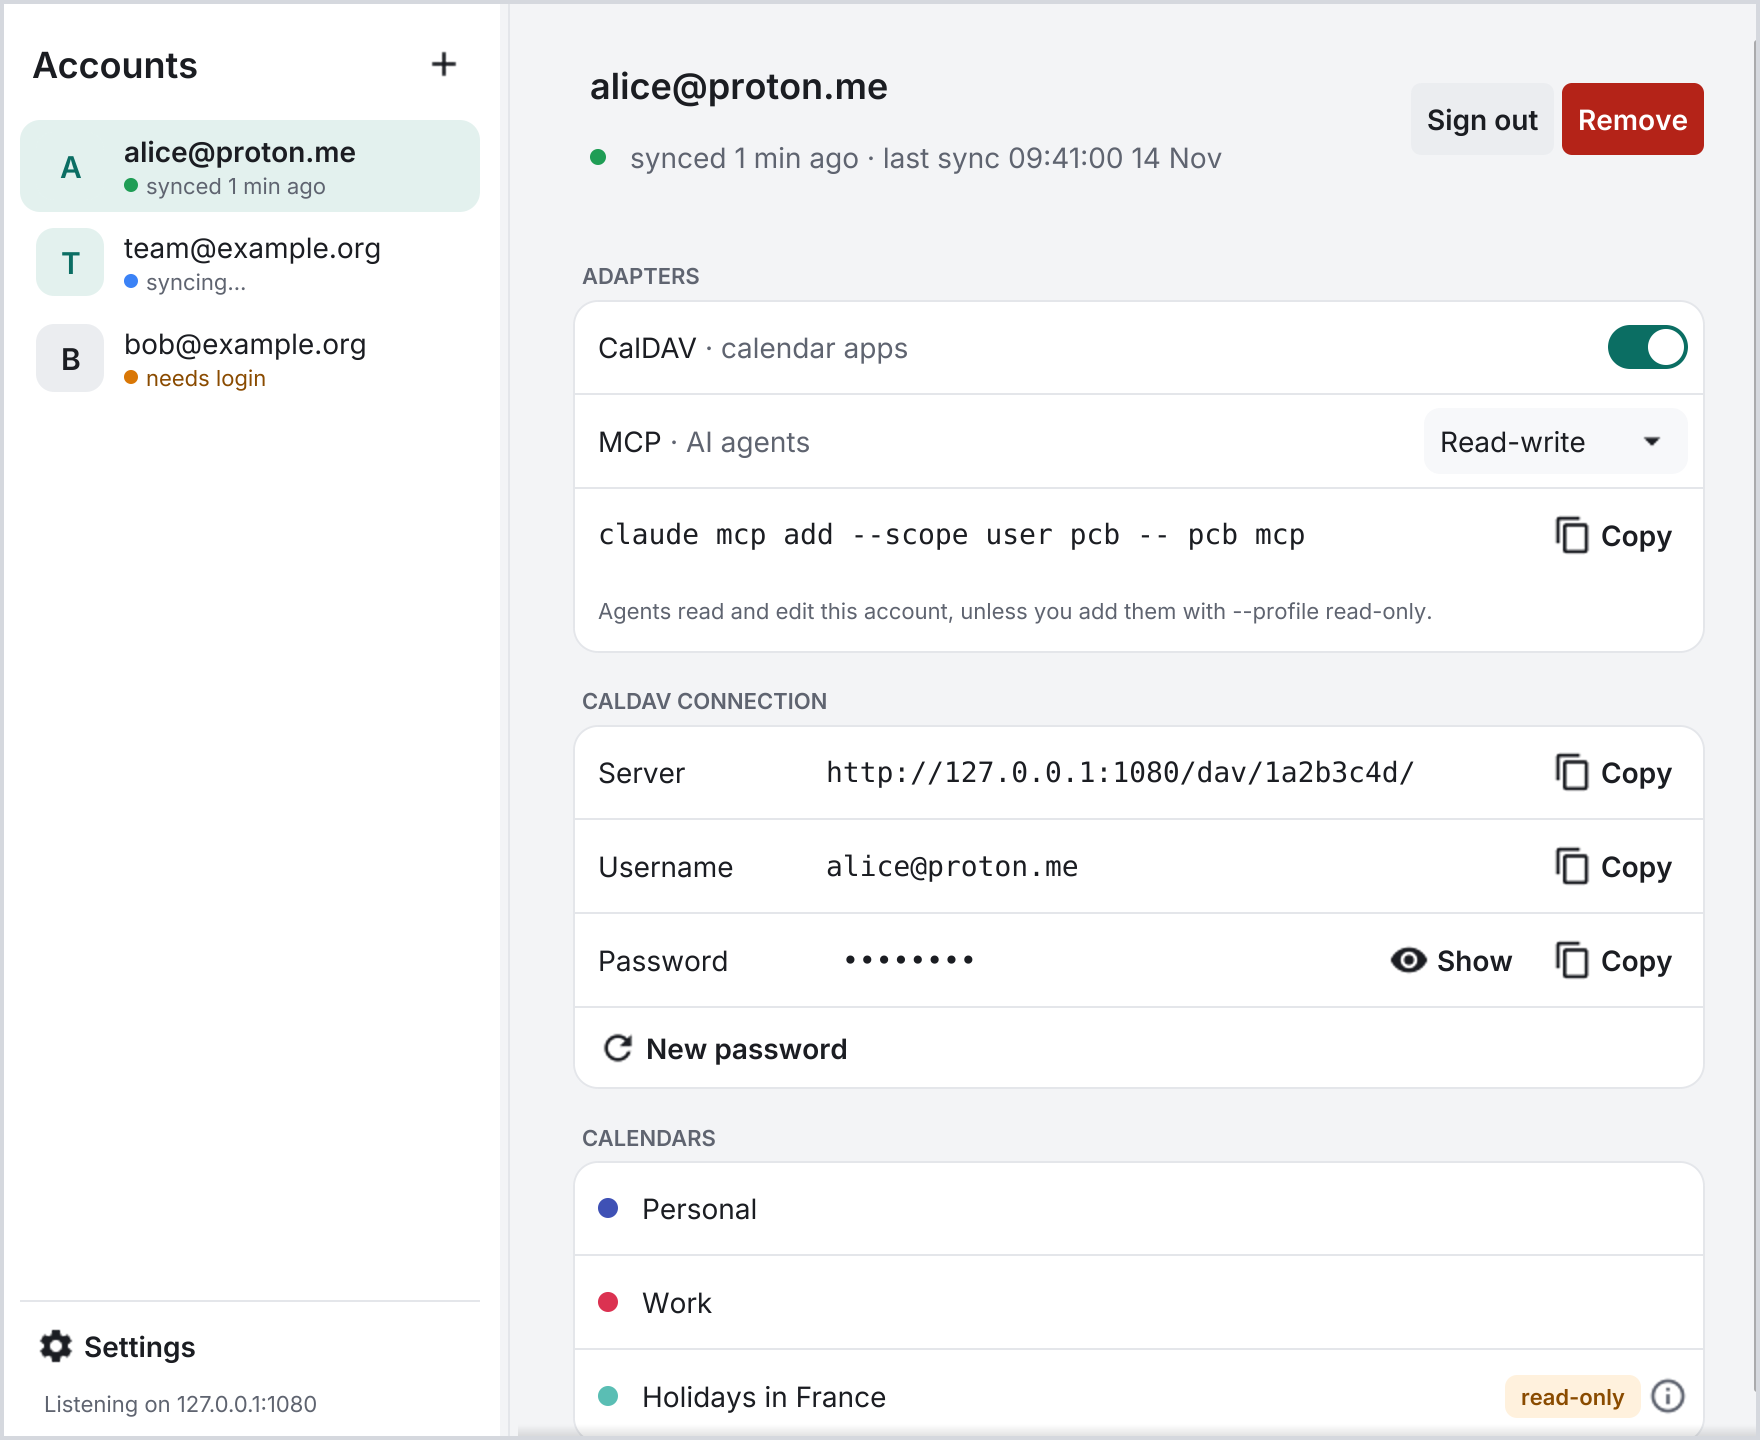
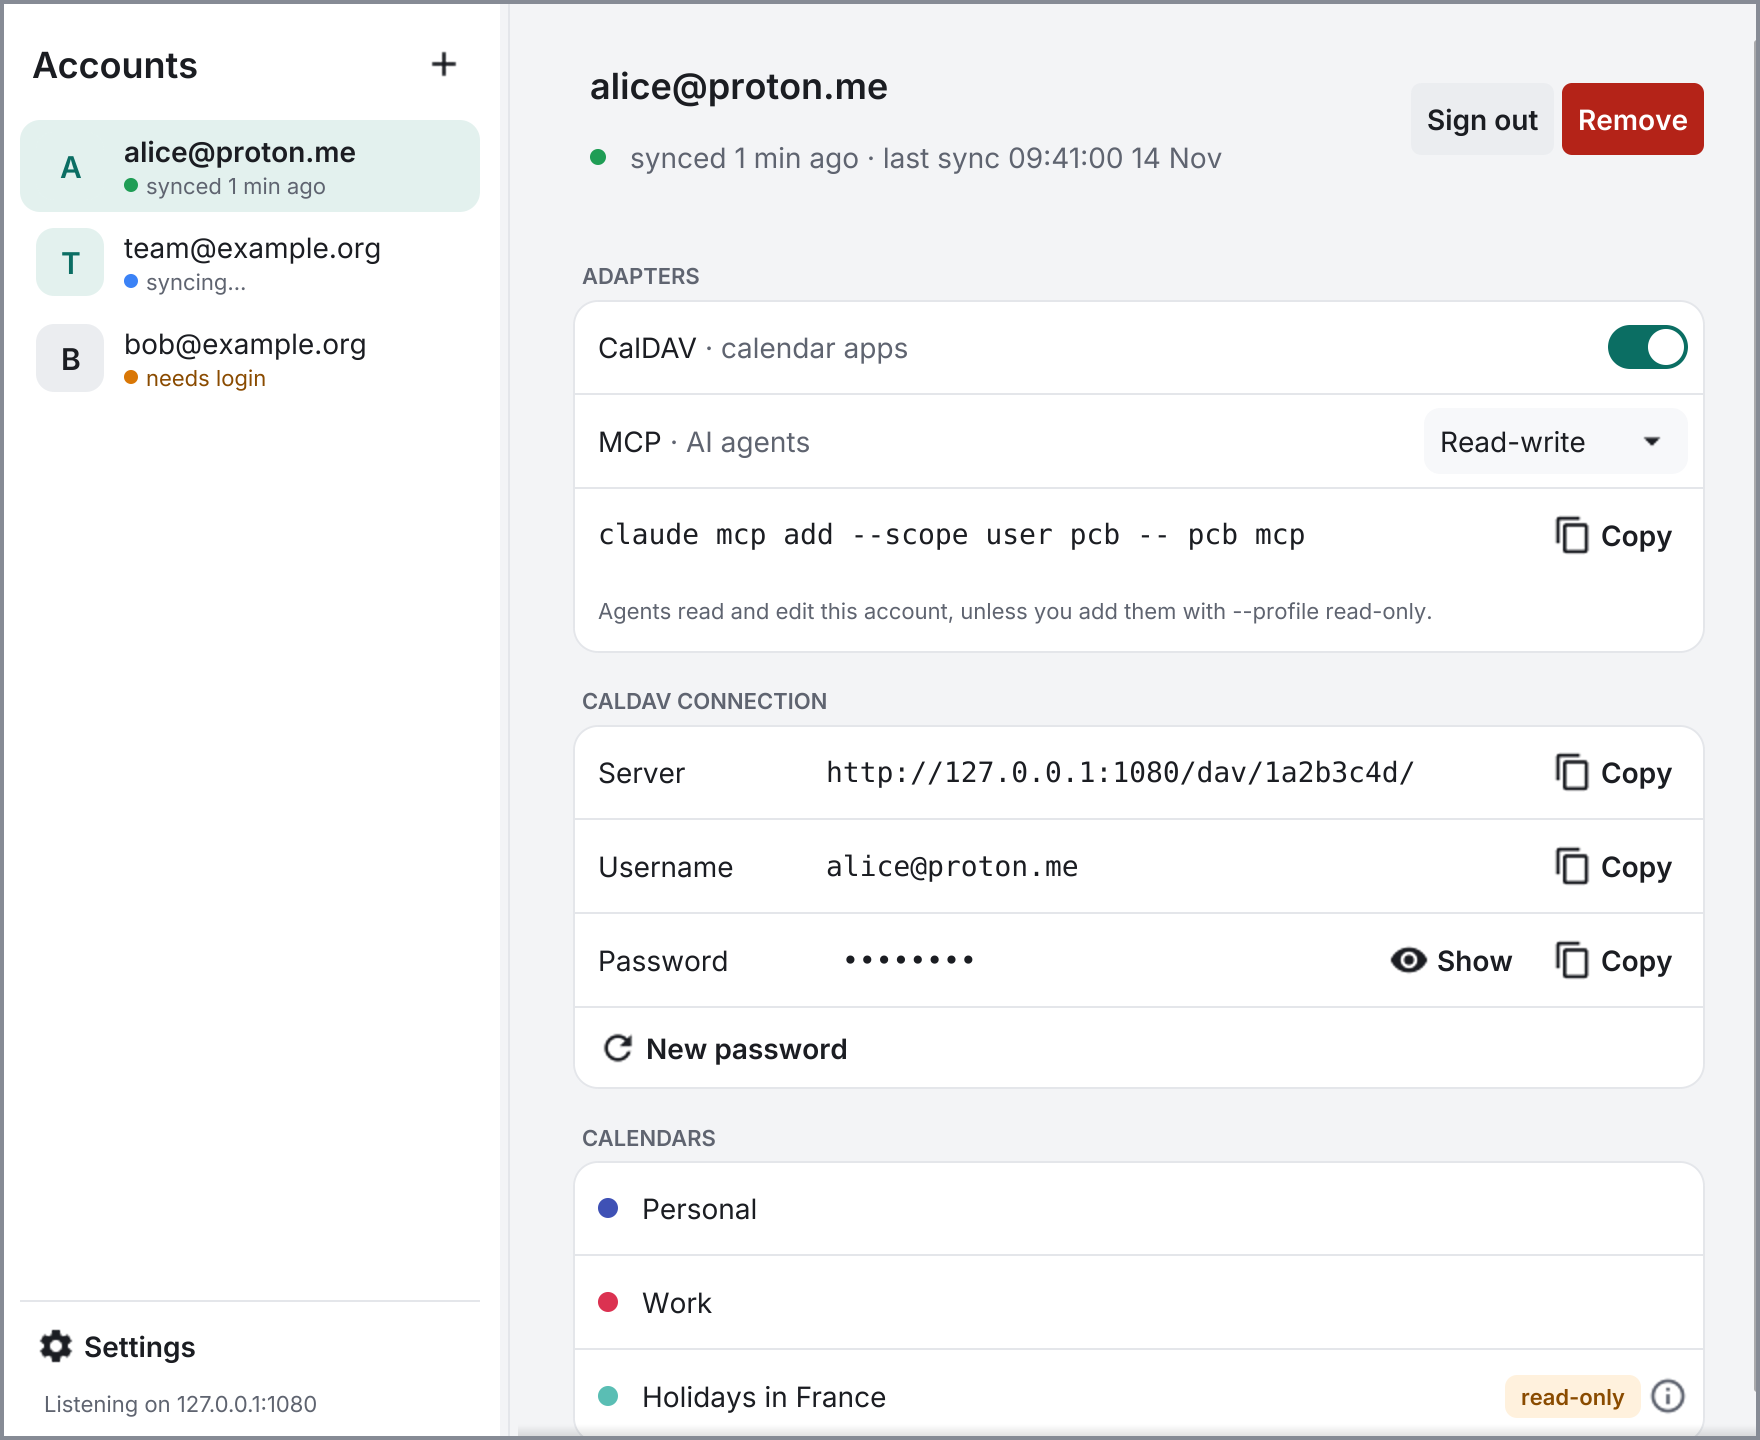
♿ Give pcb-ui's input fields a 3:1 border
The unfocused field border was 1.43:1 on the card in the light variant and
1.51:1 in the dark one, under WCAG 2.2 AA's 3:1 for a component's
boundary. InputBorder is now #868B95 (light) and #6B7280 (dark): 3.42 and
3.30:1 on the card, 3.11 and 3.68:1 on the window's ground, 3.22 and
3.68:1 on the field's own fill. TestThemeInputBorderContrast holds the
three pairs at 3:1 in both variants. The focused border (the accent) is
unchanged.

The toggle's off track, also InputBorder, now reaches 3.42:1 (light) under
its white knob, up from 1.43:1. The screenshots' frame darkens with it;
all PNGs regenerated.

Claude-Session: https://claude.ai/code/session_01XrqMmdVXbwzuAj3iwmDbqj

diff --git a/internal/ui/desktop/theme.go b/internal/ui/desktop/theme.go
@@ -55,7 +55,7 @@ var paper = map[fyne.ThemeVariant]map[fyne.ThemeColorName]color.Color{
 		theme.ColorNameButton:              hex(0xEBEDF0),
 		theme.ColorNameDisabledButton:      hex(0xE4E6EA),
 		theme.ColorNameInputBackground:     hex(0xF7F8FA),
-		theme.ColorNameInputBorder:         hex(0xD5D8DE),
+		theme.ColorNameInputBorder:         hex(0x868B95), // 3:1 on the card, the ground and the field (theme_test.go)
 		theme.ColorNameSeparator:           hex(0xE4E6EA),
 		theme.ColorNameHover:               alpha(hex(0x000000), 0x0F),
 		theme.ColorNamePressed:             alpha(hex(0x000000), 0x1A),
@@ -88,7 +88,7 @@ var paper = map[fyne.ThemeVariant]map[fyne.ThemeColorName]color.Color{
 		theme.ColorNameButton:              hex(0x2A2E36),
 		theme.ColorNameDisabledButton:      hex(0x24272E),
 		theme.ColorNameInputBackground:     hex(0x16181C),
-		theme.ColorNameInputBorder:         hex(0x3A3F4A),
+		theme.ColorNameInputBorder:         hex(0x6B7280),
 		theme.ColorNameSeparator:           hex(0x2C3038),
 		theme.ColorNameHover:               alpha(hex(0xFFFFFF), 0x0F),
 		theme.ColorNamePressed:             alpha(hex(0xFFFFFF), 0x1A),

diff --git a/internal/ui/desktop/theme_test.go b/internal/ui/desktop/theme_test.go
@@ -60,6 +60,21 @@ func TestThemeContrast(t *testing.T) {
 	}
 }
 
+// A field's boundary stands out (WCAG 2.2 AA non-text contrast, 3:1) from
+// what is around it, the card and the window's ground, and from the field's
+// own fill, in the light and the dark variant. The focused border is the
+// accent, which TestThemeContrast already holds to 4.5:1 on the card.
+func TestThemeInputBorderContrast(t *testing.T) {
+	th := Theme()
+	for _, v := range []fyne.ThemeVariant{theme.VariantLight, theme.VariantDark} {
+		for _, on := range []fyne.ThemeColorName{colorCard, theme.ColorNameBackground, theme.ColorNameInputBackground} {
+			if c := contrast(th.Color(theme.ColorNameInputBorder, v), th.Color(on, v)); c < 3 {
+				t.Errorf("variant %d: %s on %s has contrast %.2f, want >= 3", v, theme.ColorNameInputBorder, on, c)
+			}
+		}
+	}
+}
+
 // The light variant is light and the dark one dark: the theme follows the
 // desktop's choice instead of forcing one.
 func TestThemeVariants(t *testing.T) {
